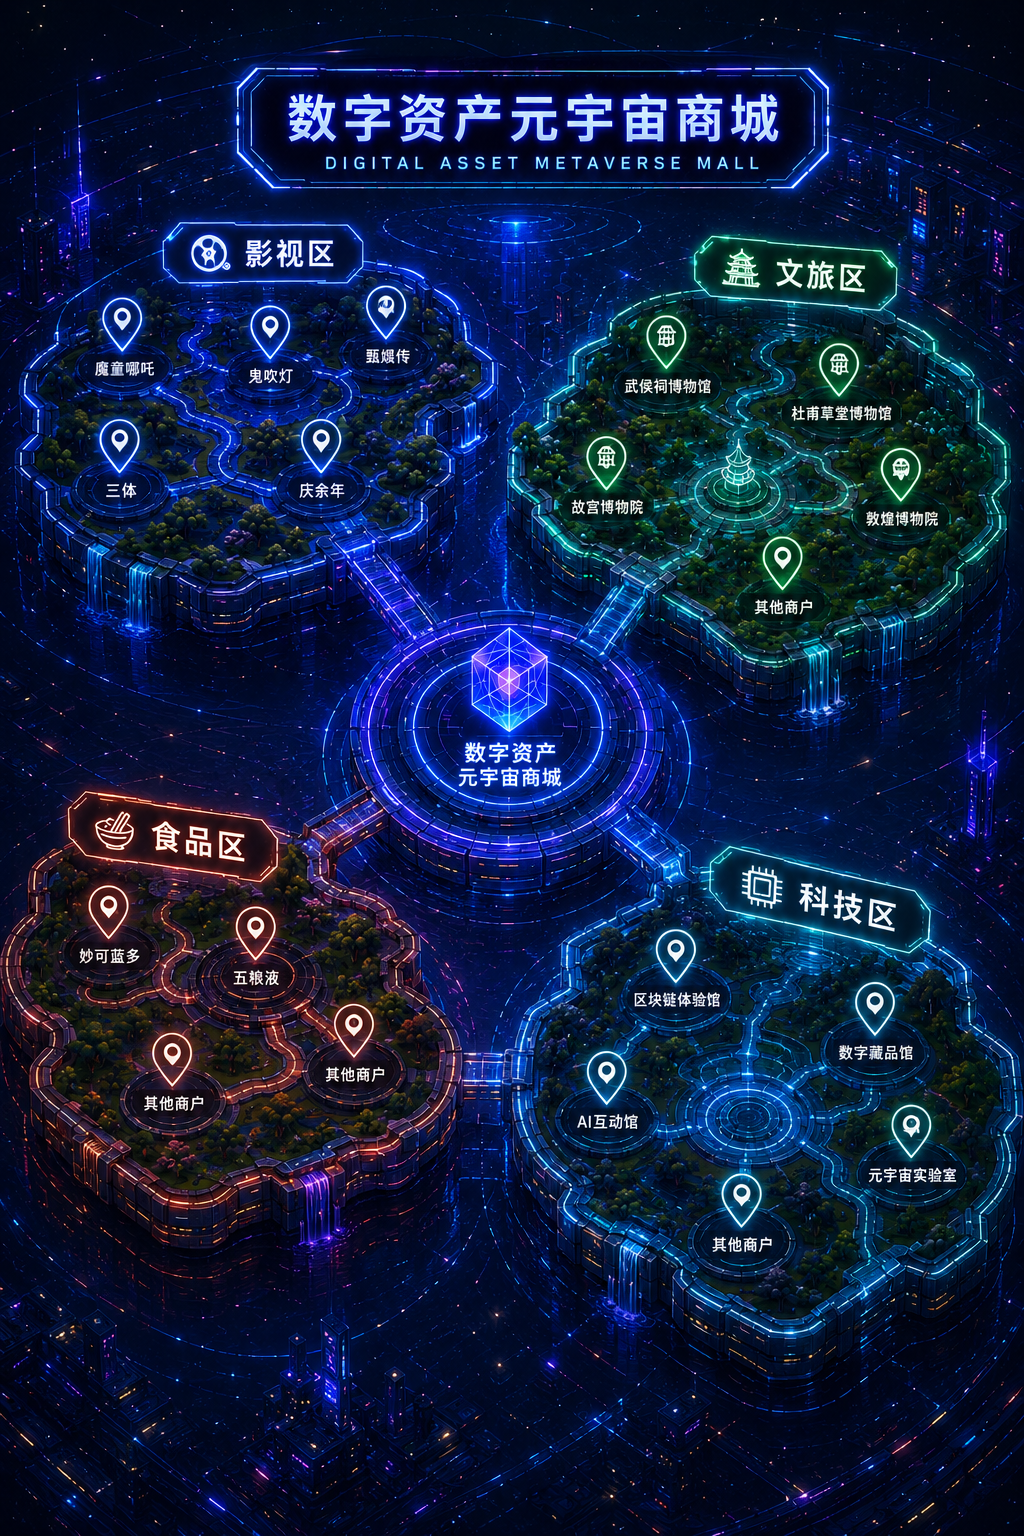
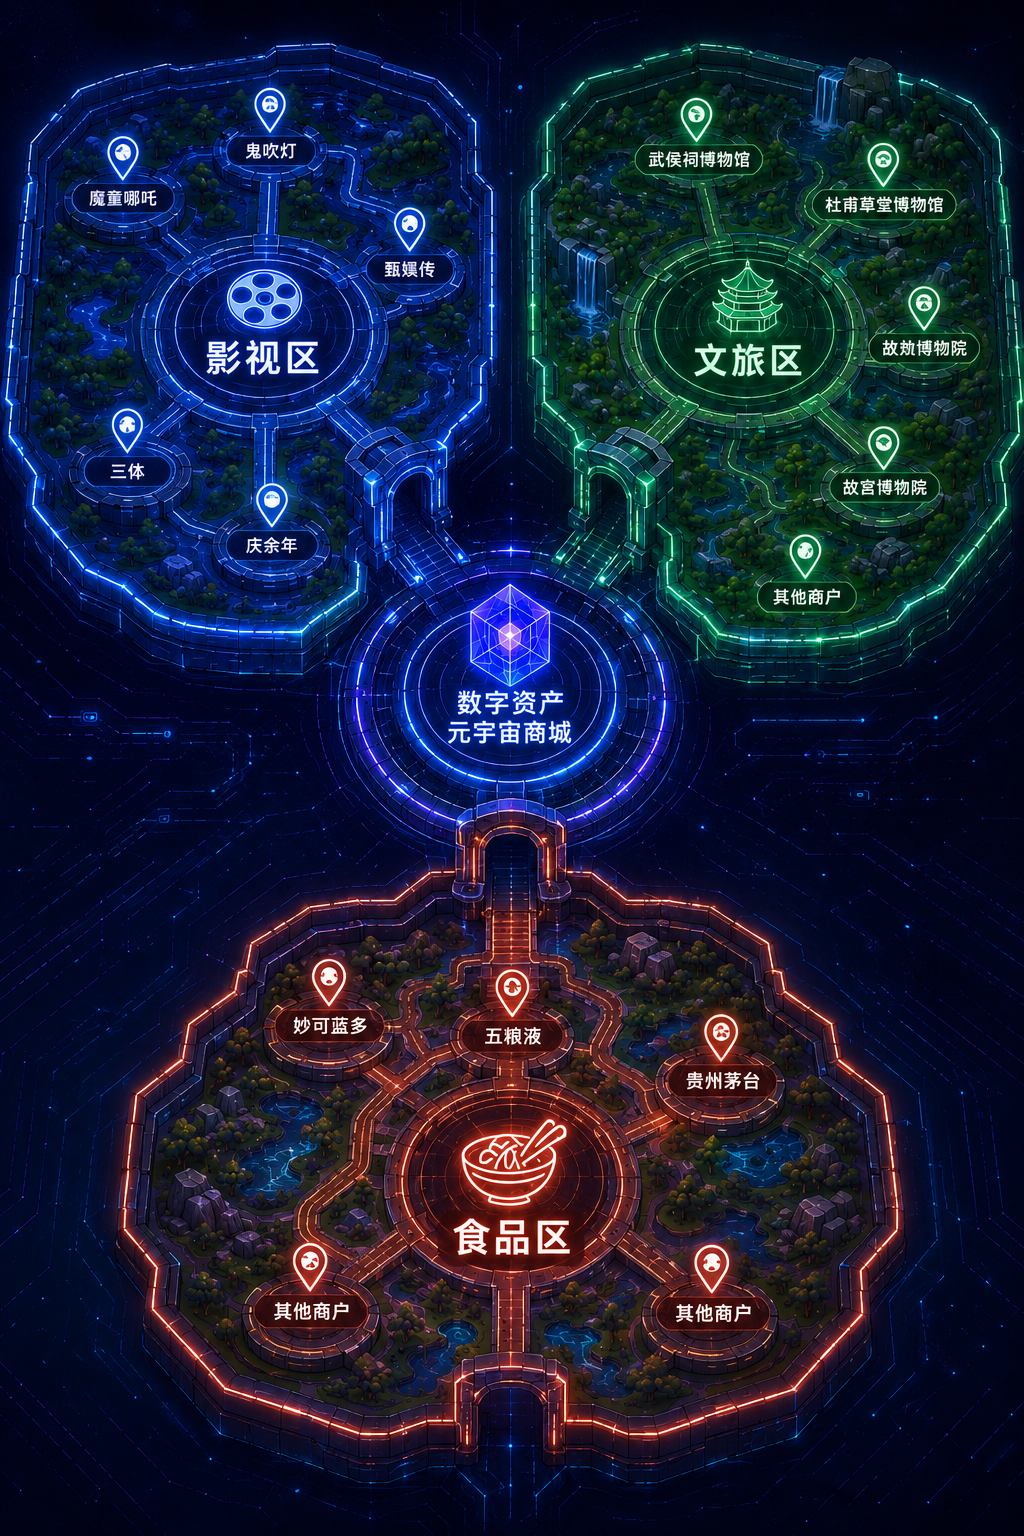
modify

diff --git a/mall_portrait.html b/mall_portrait.html
@@ -75,6 +75,9 @@
     transition: transform .6s cubic-bezier(.25,.46,.45,.94);
     pointer-events: none;
   }
+  #scene1 .map-pan img {
+    width: 130%; height: 130%;
+  }
   .scene-layer.scene-sub .map-pan img {
     width: 120%; height: 120%;
   }
@@ -586,9 +589,9 @@ const SCENES = {
     name: '元宇宙地图',
     origin: { left: 50, top: 50 },
     spots: [
-      { x: 5, y: 60, w: 20, h: 14, label: '食品区', toScene: 2 },
-      { x: 65, y: 15, w: 20, h: 14, label: '文旅区', toScene: 4 },
-      { x: 5,  y: 15, w: 20, h: 14, label: '影视区', toScene: 3 },
+      { x: 40, y: 55, w: 20, h: 5, label: '食品区', toScene: 2 },
+      { x: 55, y: 25, w: 20, h: 5, label: '文旅区', toScene: 4 },
+      { x: 22,  y: 25, w: 20, h: 5, label: '影视区', toScene: 3 },
     ],
     arrows: []
   },
@@ -892,7 +895,7 @@ function initMapDrag() {
     var w = pan.clientWidth, h = pan.clientHeight;
     var isSub = s.classList.contains('scene-sub');
     var scale = isSub ? 1.2 : 1.3;
-    var mx = Math.max(0, w*(scale-1)/2-10), my = Math.max(0, h*(scale-1)/2-10);
+    var mx = Math.max(0, w*(scale-1)/2), my = Math.max(0, h*(scale-1)/2);
     mapDrag.x = Math.max(-mx, Math.min(mx, x));
     mapDrag.y = Math.max(-my, Math.min(my, y));
   }